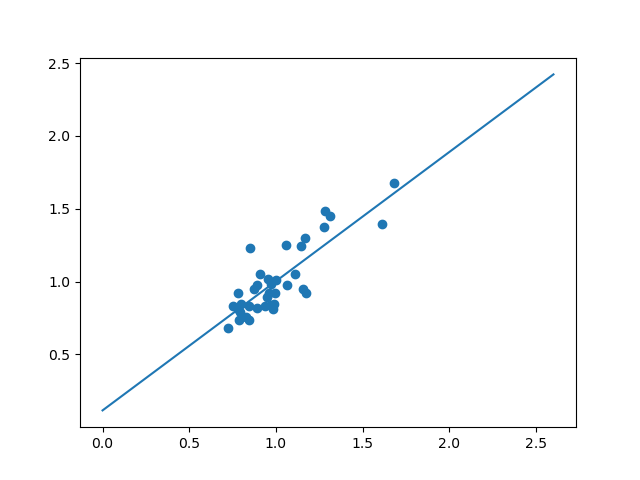
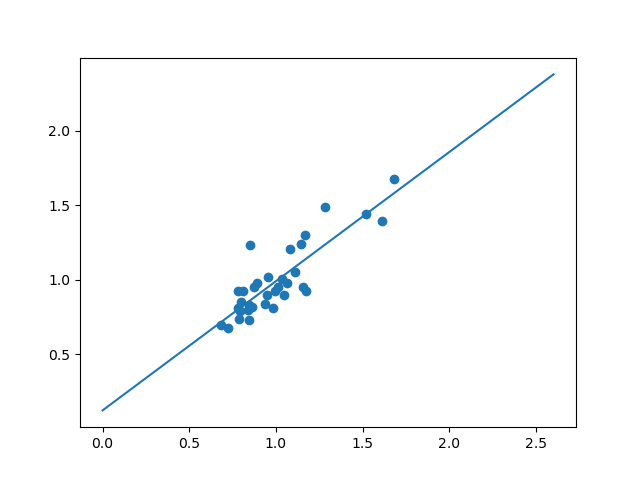
otros datos y mejoras experimento 1-5 añadido

diff --git a/Regresion Lineal/Implementacion/Codigo/main.py b/Regresion Lineal/Implementacion/Codigo/main.py
@@ -5,7 +5,7 @@ def main():
     opcion = 1
     learning_rates = [0.01, 0.05, 0.1, 0.2, 0.4]
     fixed_datasets = ["../Datos/ex1data2(Home_1f).csv", "../Datos/oceano_simple.csv", "../Datos/petrol_consumption.csv"]
-    while opcion <= 4 and opcion > 0:
+    while opcion <= 5 and opcion > 0:
         print("Seleccione el experimento que desea realizar:")
         print("Experimento 1: Mostrar error cuadratico usando Ec. normal de un dataset")
         print("Experimento 2: Buscar mejores parametros de entrenamiento de un dataset")
@@ -43,7 +43,7 @@ def main():
                 train_dataset_name = input()
                 print("Ingrese solo el nombre del dataset de prueba: (en la ubicacion ../Otros_Datos/)")
                 test_dataset_name = input()
-                statistics = Experimento_2_separados("../Otros_Datos/" + train_dataset_name, "../Otros_Datos/" + test_dataset_name, + learning_rates)
+                statistics = Experimento_2_separados("../Otros_Datos/" + train_dataset_name, "../Otros_Datos/" + test_dataset_name, learning_rates)
             print("Resultado:")
             print(statistics)
             with open('../Resultados/Exp2/Resultado2.json', 'w') as json_file:
@@ -84,8 +84,17 @@ def main():
                 test_dataset_name = input("../Otros_Datos/" + train_dataset_name, "../Otros_Datos/" + test_dataset_name, learning_rate)
                 Experimento_4_separados()
             print("Resultados guardados en '../Resultados/Exp4'")
+        elif opcion == 5:
+            print("global")
+            global_name = "../Otros_Datos/" + "global.csv"
+            print("train?")
+            train_name = "../Otros_Datos/" + "train_ex1data1.csv"
+            print("test?")
+            test_name = "../Otros_Datos/" + "test_ex1data1.csv"
+            Experimento_1_X(global_name, train_name, test_name)
         else:
             print("fin del programa")
+
 
 if __name__ == "__main__":
     main()

diff --git a/Regresion Lineal/Implementacion/Codigo/Intermediarios.py b/Regresion Lineal/Implementacion/Codigo/Intermediarios.py
@@ -16,6 +16,32 @@ def Experimento_1(fixed_datasets, sample_test):
 			J = None
 		Js.append(J)
 	buffer1.append(Js)
+	print(theta)
+	return buffer1
+
+def Experimento_1_X(global_name, train_name, test_name):
+	Js = []
+	np_arr = Leer_Datos(global_name)
+	np_arr, Media, Desviacion = Normalizar_Datos(np_arr)
+	train_data = Leer_Datos(train_name)
+	test_data = Leer_Datos(test_name)
+	train, test = Normalizar_Datos_MD(train_data, Media, Desviacion),  Normalizar_Datos_MD(test_data, Media, Desviacion)
+	train, test = train + 1, test + 1
+	X_train, Y_train = separador(train)
+	X_test, Y_test = separador(test)
+	theta_train = Ecuacion_Normal(X_train, Y_train)
+	theta_test = Ecuacion_Normal(X_test, Y_test)
+	if type(theta_train) != bool or type(theta_test):
+		J = Calcular_Costo(X_train, theta_train, Y_train)
+		Js.append(J)
+		J = Calcular_Costo(X_test, theta_test, Y_test)
+		Js.append(J)
+	else:
+		J = None
+	buffer1 = []
+	buffer1.append(Js)
+	print("train: " + str(theta_train))
+	print("test: " + str(theta_test))
 	return buffer1
 
 def Experimento_2(fixed_datasets, learning_rates):
